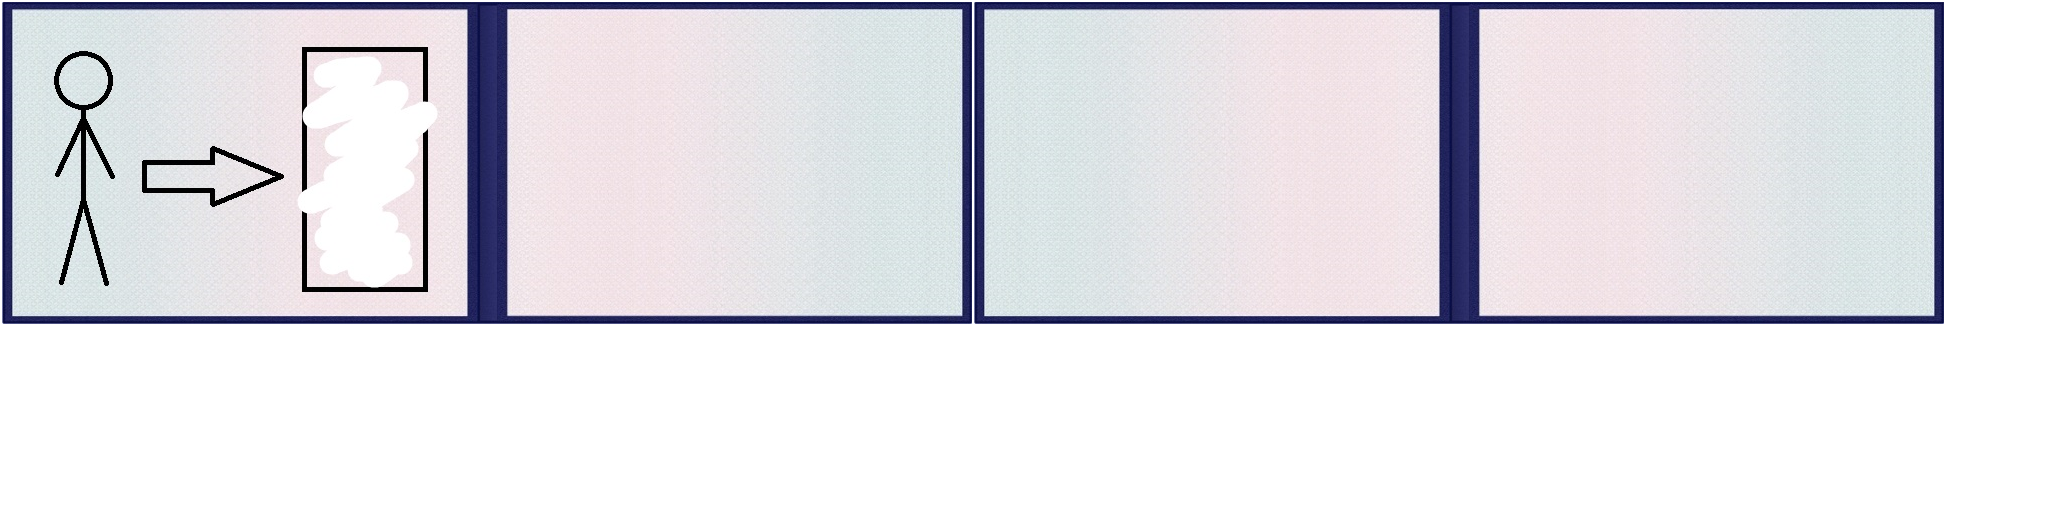
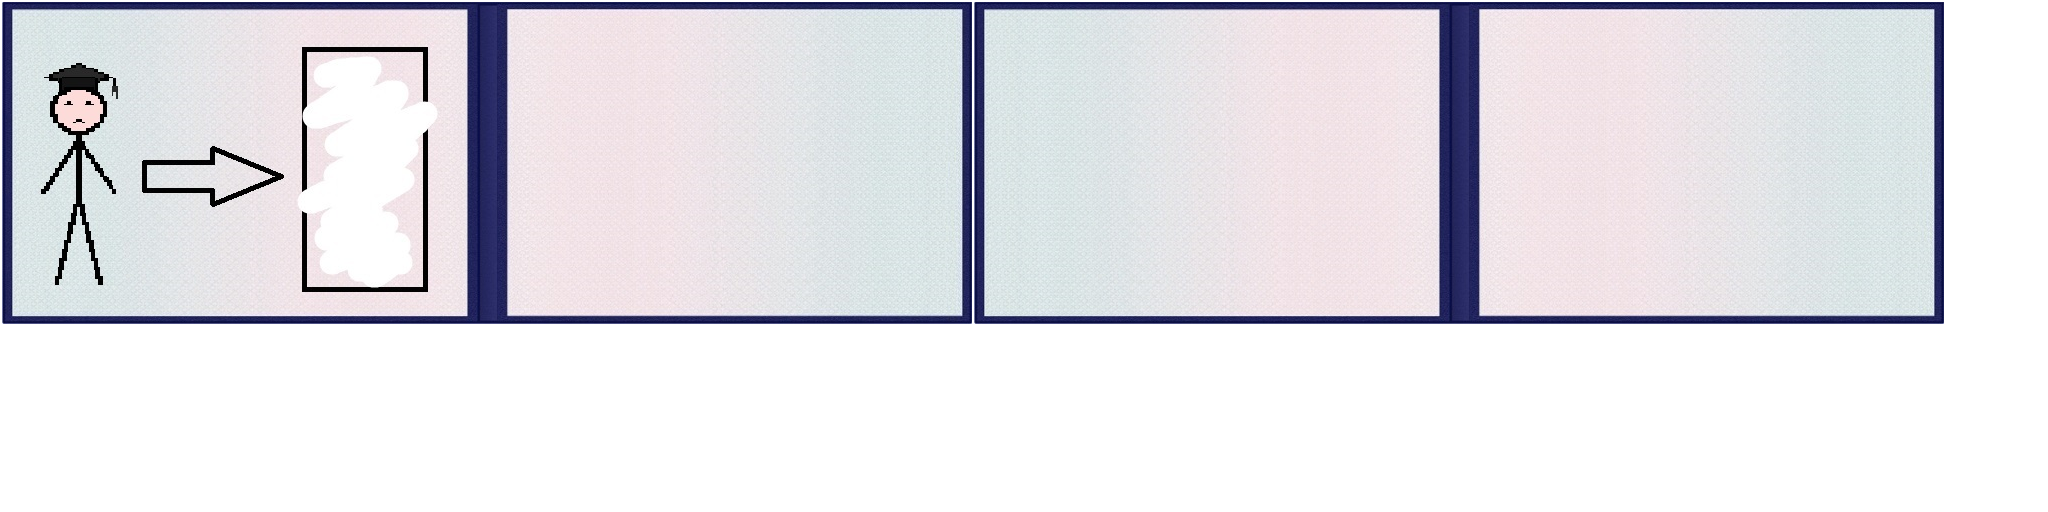
Maybe... Ready?

Changed region(s): [[0.0, 0.0938, 0.0625, 0.5625]]

diff --git a/core/src/View/Screens/GameScreen.java b/core/src/View/Screens/GameScreen.java
@@ -27,7 +27,7 @@ public class GameScreen implements Screen {
     private Viewport viewport;
     private SpriteBatch batch;
     private GameGUI gui;
-    private RecordBook recordBook;
+    private Student player;
     private Array<GameObject> fallers;
     private float fallFrequency;
 
@@ -36,7 +36,7 @@ public class GameScreen implements Screen {
     }
 
     private void updateObjects() {
-        recordBook.update();
+        player.update();
         for (GameObject object : fallers)
             object.update();
     }
@@ -44,34 +44,36 @@ public class GameScreen implements Screen {
     private void drawObjects() {
         batch.begin();
         background.draw(batch);
-        recordBook.draw(batch);
+        player.draw(batch);
         for (GameObject object : fallers)
             object.draw(batch);
         batch.end();
     }
 
     private float fallTimer;
+    static private float fallersOffsetX = 0f;
+    static private float fallersOffsetY = 100f;
     private void createFallers() {
         fallTimer -= deltaCff;
         if(fallTimer <= 0) {
             FallersFactory fallersFactory = FallersFactory.getRandomFactory();
-            float posX = getRandomFloat(0f, worldWidth-100f);
+            float posX = getRandomFloat(fallersOffsetX, worldWidth-fallersOffsetY);
             fallers.add(fallersFactory.create(posX,worldHeight));
             fallTimer = 1/fallFrequency;
         }
     }
 
     private void checkCollision() {
-        int index = Collision.check(recordBook, fallers);
+        int index = Collision.check(player, fallers);
         GameObject collisionObject;
         if (index != -1) {
             collisionObject = fallers.get(index);
-            if(collisionObject.getClass() == Book.class) {
+            if(GoodFaller.class.isAssignableFrom(collisionObject.getClass())) {
                 gui.score.add(1);
                 fallFrequency += 0.05f;
                 fallers.removeIndex(index);
             }
-            if(collisionObject.getClass() == Bottle.class) {
+            if(BadFaller.class.isAssignableFrom(collisionObject.getClass())) {
                 gui.mark.add(-1);
                 fallers.removeIndex(index);
             }
@@ -80,7 +82,7 @@ public class GameScreen implements Screen {
         for (int i = 0; i < fallers.size; i++) {
             collisionObject = fallers.get(i);
             if(collisionObject.getBounds().getY() < -100f) {
-                if (collisionObject.getClass() == Book.class)
+                if (GoodFaller.class.isAssignableFrom(collisionObject.getClass()))
                     gui.mark.add(-1);
                 fallers.removeIndex(i);
             }
@@ -94,7 +96,7 @@ public class GameScreen implements Screen {
         viewport = new FitViewport(worldWidth,worldHeight,camera);
         batch = new SpriteBatch();
         gui = new GameGUI(viewport);
-        recordBook = new RecordBook(0f,0f);
+        player = new Student(0f,0f);
         fallers = new Array<>();
         fallFrequency = 0.5f;
         fallTimer = fallFrequency;

diff --git a/core/src/Tools/FallersFactory.java b/core/src/Tools/FallersFactory.java
@@ -1,8 +1,6 @@
 package Tools;
 
-import Model.GameObjects.Book;
-import Model.GameObjects.Bottle;
-import Model.GameObjects.GameObject;
+import Model.GameObjects.*;
 
 import static com.artemiiik.tsl.TSL.random;
 
@@ -17,6 +15,24 @@ public enum FallersFactory implements EmptyFactory{
         @Override
         public GameObject create(float posX, float posY) {
             return new Bottle(posX, posY);
+        }
+    },
+    CigaretteFactory {
+        @Override
+        public GameObject create(float posX, float posY) {
+            return new Cigarette(posX, posY);
+        }
+    },
+    RecordBookFactory {
+        @Override
+        public GameObject create(float posX, float posY) {
+            return new RecordBook(posX, posY);
+        }
+    },
+    FeatherFactory {
+        @Override
+        public GameObject create(float posX, float posY) {
+            return new Feather(posX, posY);
         }
     };
 

diff --git a/core/src/Controller/ObjectControllers/PlayerController.java b/core/src/Controller/ObjectControllers/PlayerController.java
@@ -1,0 +1,26 @@
+package Controller.ObjectControllers;
+
+import Model.GameObjects.GameObject;
+import View.Screens.GameScreen;
+
+public class PlayerController extends ObjectController {
+    public PlayerController(GameObject reciever) {
+        super(reciever);
+        setSpeed(GameScreen.worldWidth/2f);
+    }
+
+    @Override
+    public void update() {
+        handleCommand();
+
+        float posX = reciever.getBounds().getX();
+        float posY = reciever.getBounds().getY();
+        float spriteWidth = reciever.getBounds().getVertices()[2];
+        float spriteHeight = reciever.getBounds().getVertices()[6];
+
+        if(posX < 0) move(-posX,0f);
+        if(posX + spriteWidth > GameScreen.worldWidth) move(GameScreen.worldWidth-spriteWidth-posX,0f);
+        if(posY < 0) move(0f,-posY);
+        if(posY + spriteHeight > 100f) move(0f,100f-spriteHeight-posY);
+    }
+}

diff --git a/core/src/Model/GameObjects/RecordBook.java b/core/src/Model/GameObjects/RecordBook.java
@@ -1,11 +1,11 @@
 package Model.GameObjects;
 
-import Controller.ObjectControllers.RBController;
+import Controller.ObjectControllers.FallerController;
 import Tools.Assets;
 
-public class RecordBook extends GameObject{
+public class RecordBook extends GameObject implements GoodFaller{
     public RecordBook(float posX, float posY) {
-        super(Assets.getAtlas("GameScreen.atlas").findRegion("RecordBook"), posX, posY, 80f, 65f, 0f);
-        setController(new RBController(this));
+        super(Assets.getAtlas("GameObjects.atlas").findRegion("recordbook"), posX, posY, 100f, 56.25f, 0f);
+        setController(new FallerController(this));
     }
 }

diff --git a/core/src/Model/GameObjects/Bottle.java b/core/src/Model/GameObjects/Bottle.java
@@ -3,9 +3,9 @@ package Model.GameObjects;
 import Controller.ObjectControllers.FallerController;
 import Tools.Assets;
 
-public class Bottle extends GameObject{
+public class Bottle extends GameObject implements BadFaller{
     public Bottle(float posX, float posY) {
-        super(Assets.getAtlas("GameScreen.atlas").findRegion("Bottle"), posX, posY, 100f, 100f, 0f);
+        super(Assets.getAtlas("GameObjects.atlas").findRegion("bottle"), posX, posY, 100f, 100f, 0f);
         setController(new FallerController(this));
     }
 }

diff --git a/core/src/Model/GameObjects/Book.java b/core/src/Model/GameObjects/Book.java
@@ -3,9 +3,9 @@ package Model.GameObjects;
 import Controller.ObjectControllers.FallerController;
 import Tools.Assets;
 
-public class Book extends GameObject{
+public class Book extends GameObject implements GoodFaller{
     public Book(float posX, float posY) {
-        super(Assets.getAtlas("GameScreen.atlas").findRegion("Book"), posX, posY, 100f, 100f, 0f);
+        super(Assets.getAtlas("GameObjects.atlas").findRegion("book"), posX, posY, 100f, 90f, 0f);
         setController(new FallerController(this));
     }
 }

diff --git a/core/src/Model/GameObjects/Cigarette.java b/core/src/Model/GameObjects/Cigarette.java
@@ -1,0 +1,11 @@
+package Model.GameObjects;
+
+import Controller.ObjectControllers.FallerController;
+import Tools.Assets;
+
+public class Cigarette extends GameObject implements BadFaller{
+    public Cigarette(float posX, float posY) {
+        super(Assets.getAtlas("GameObjects.atlas").findRegion("cigarette"), posX, posY, 100f, 100f, 0f);
+        setController(new FallerController(this));
+    }
+}

diff --git a/core/src/Model/GameObjects/Feather.java b/core/src/Model/GameObjects/Feather.java
@@ -1,0 +1,11 @@
+package Model.GameObjects;
+
+import Controller.ObjectControllers.FallerController;
+import Tools.Assets;
+
+public class Feather extends GameObject implements GoodFaller{
+    public Feather(float posX, float posY) {
+        super(Assets.getAtlas("GameObjects.atlas").findRegion("feather"), posX, posY, 60f, 100f, 0f);
+        setController(new FallerController(this));
+    }
+}

diff --git a/core/src/Model/GameObjects/Student.java b/core/src/Model/GameObjects/Student.java
@@ -1,0 +1,11 @@
+package Model.GameObjects;
+
+import Controller.ObjectControllers.PlayerController;
+import Tools.Assets;
+
+public class Student extends GameObject{
+    public Student(float posX, float posY) {
+        super(Assets.getAtlas("GameObjects.atlas").findRegion("student"), posX, posY, 54, 120, 0f);
+        setController(new PlayerController(this));
+    }
+}

diff --git a/core/src/Tools/Assets.java b/core/src/Tools/Assets.java
@@ -8,7 +8,7 @@ public class Assets {
     static private AssetManager manager = new AssetManager();
 
     static public void load() {
-        manager.load("GameScreen.atlas", TextureAtlas.class);
+        manager.load("GameObjects.atlas", TextureAtlas.class);
         manager.load("background.jpg", Texture.class);
         manager.finishLoading();
     }

diff --git a/core/src/Model/GameObjects/GoodFaller.java b/core/src/Model/GameObjects/GoodFaller.java
@@ -1,0 +1,4 @@
+package Model.GameObjects;
+
+public interface GoodFaller {
+}

diff --git a/core/src/Model/GameObjects/BadFaller.java b/core/src/Model/GameObjects/BadFaller.java
@@ -1,0 +1,4 @@
+package Model.GameObjects;
+
+public interface BadFaller {
+}
